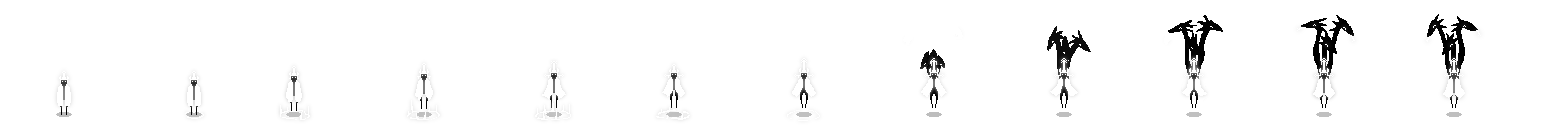
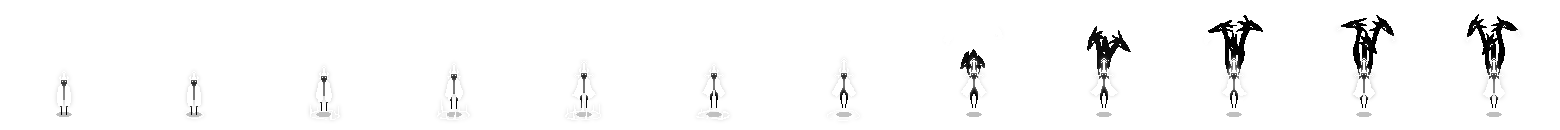
Fixed spawn, catch breath

diff --git a/core/src/main/java/edu/cornell/jade/seasthethrone/gamemodel/boss/FinalBossModel.java b/core/src/main/java/edu/cornell/jade/seasthethrone/gamemodel/boss/FinalBossModel.java
@@ -11,7 +11,9 @@ public class FinalBossModel extends BossModel{
   private FilmStrip finalGetHitAnimation;
   private FilmStrip terminatedAnimation;
   private FilmStrip catchBreathAnimation;
+  /** Whether the boss is terminated */
   private boolean isTerminated;
+  /**Whether the boss is catching breath */
   private boolean catchBreath;
 
   public FinalBossModel (Builder builder) {
@@ -90,10 +92,11 @@ public class FinalBossModel extends BossModel{
         }
       }
       else if (catchBreath){
-        if (frameCounter % frameDelay == 0 && getFrameNumber() < getFramesInAnimation() - 1) {
-          setFrameNumber(getFrameNumber() + 1);
-        } else {
-          setFrameNumber(getFrameNumber());
+        if (frameCounter % (frameDelay*4) == 0) {
+          if (getFrameNumber() < getFramesInAnimation() - 1)
+            setFrameNumber(getFrameNumber() + 1);
+          else
+            setFrameNumber(0);
         }
       }
       else if (isTerminated){

diff --git a/core/src/main/java/edu/cornell/jade/seasthethrone/GameplayController.java b/core/src/main/java/edu/cornell/jade/seasthethrone/GameplayController.java
@@ -534,7 +534,6 @@ public class GameplayController implements Screen {
 
     // Check if the player is alive and all bosses are dead, if so the player wins
     if (!bossControllers.isEmpty() && allBossesDefeated() && !playerController.isDead()) {
-      System.out.println("won!!!");
       gameState = GameState.WIN;
       for (BossController bc : bossControllers) {
         bc.remove();

diff --git a/core/src/main/java/edu/cornell/jade/seasthethrone/ai/FinalBossController.java b/core/src/main/java/edu/cornell/jade/seasthethrone/ai/FinalBossController.java
@@ -255,7 +255,6 @@ public class FinalBossController implements BossController {
     if (boss.isDead()) {
       dispose();
       state = State.DEAD;
-      System.out.println("final dead");
       if (boss.isFinishExecute()){
         player.setFinishExecute(true);
         player.getBodyModel().stopExecuting();

diff --git a/core/src/main/java/edu/cornell/jade/seasthethrone/gamemodel/player/PlayerModel.java b/core/src/main/java/edu/cornell/jade/seasthethrone/gamemodel/player/PlayerModel.java
@@ -292,6 +292,7 @@ public class PlayerModel extends ComplexModel implements Renderable {
     currentStrip = getFilmStrip();
     if (isExecuting()){
       currentStrip.setTexture(empty);
+      setFrameNumber(0);
     }
     else if (!isDashing()){
       switch (direction()) {
